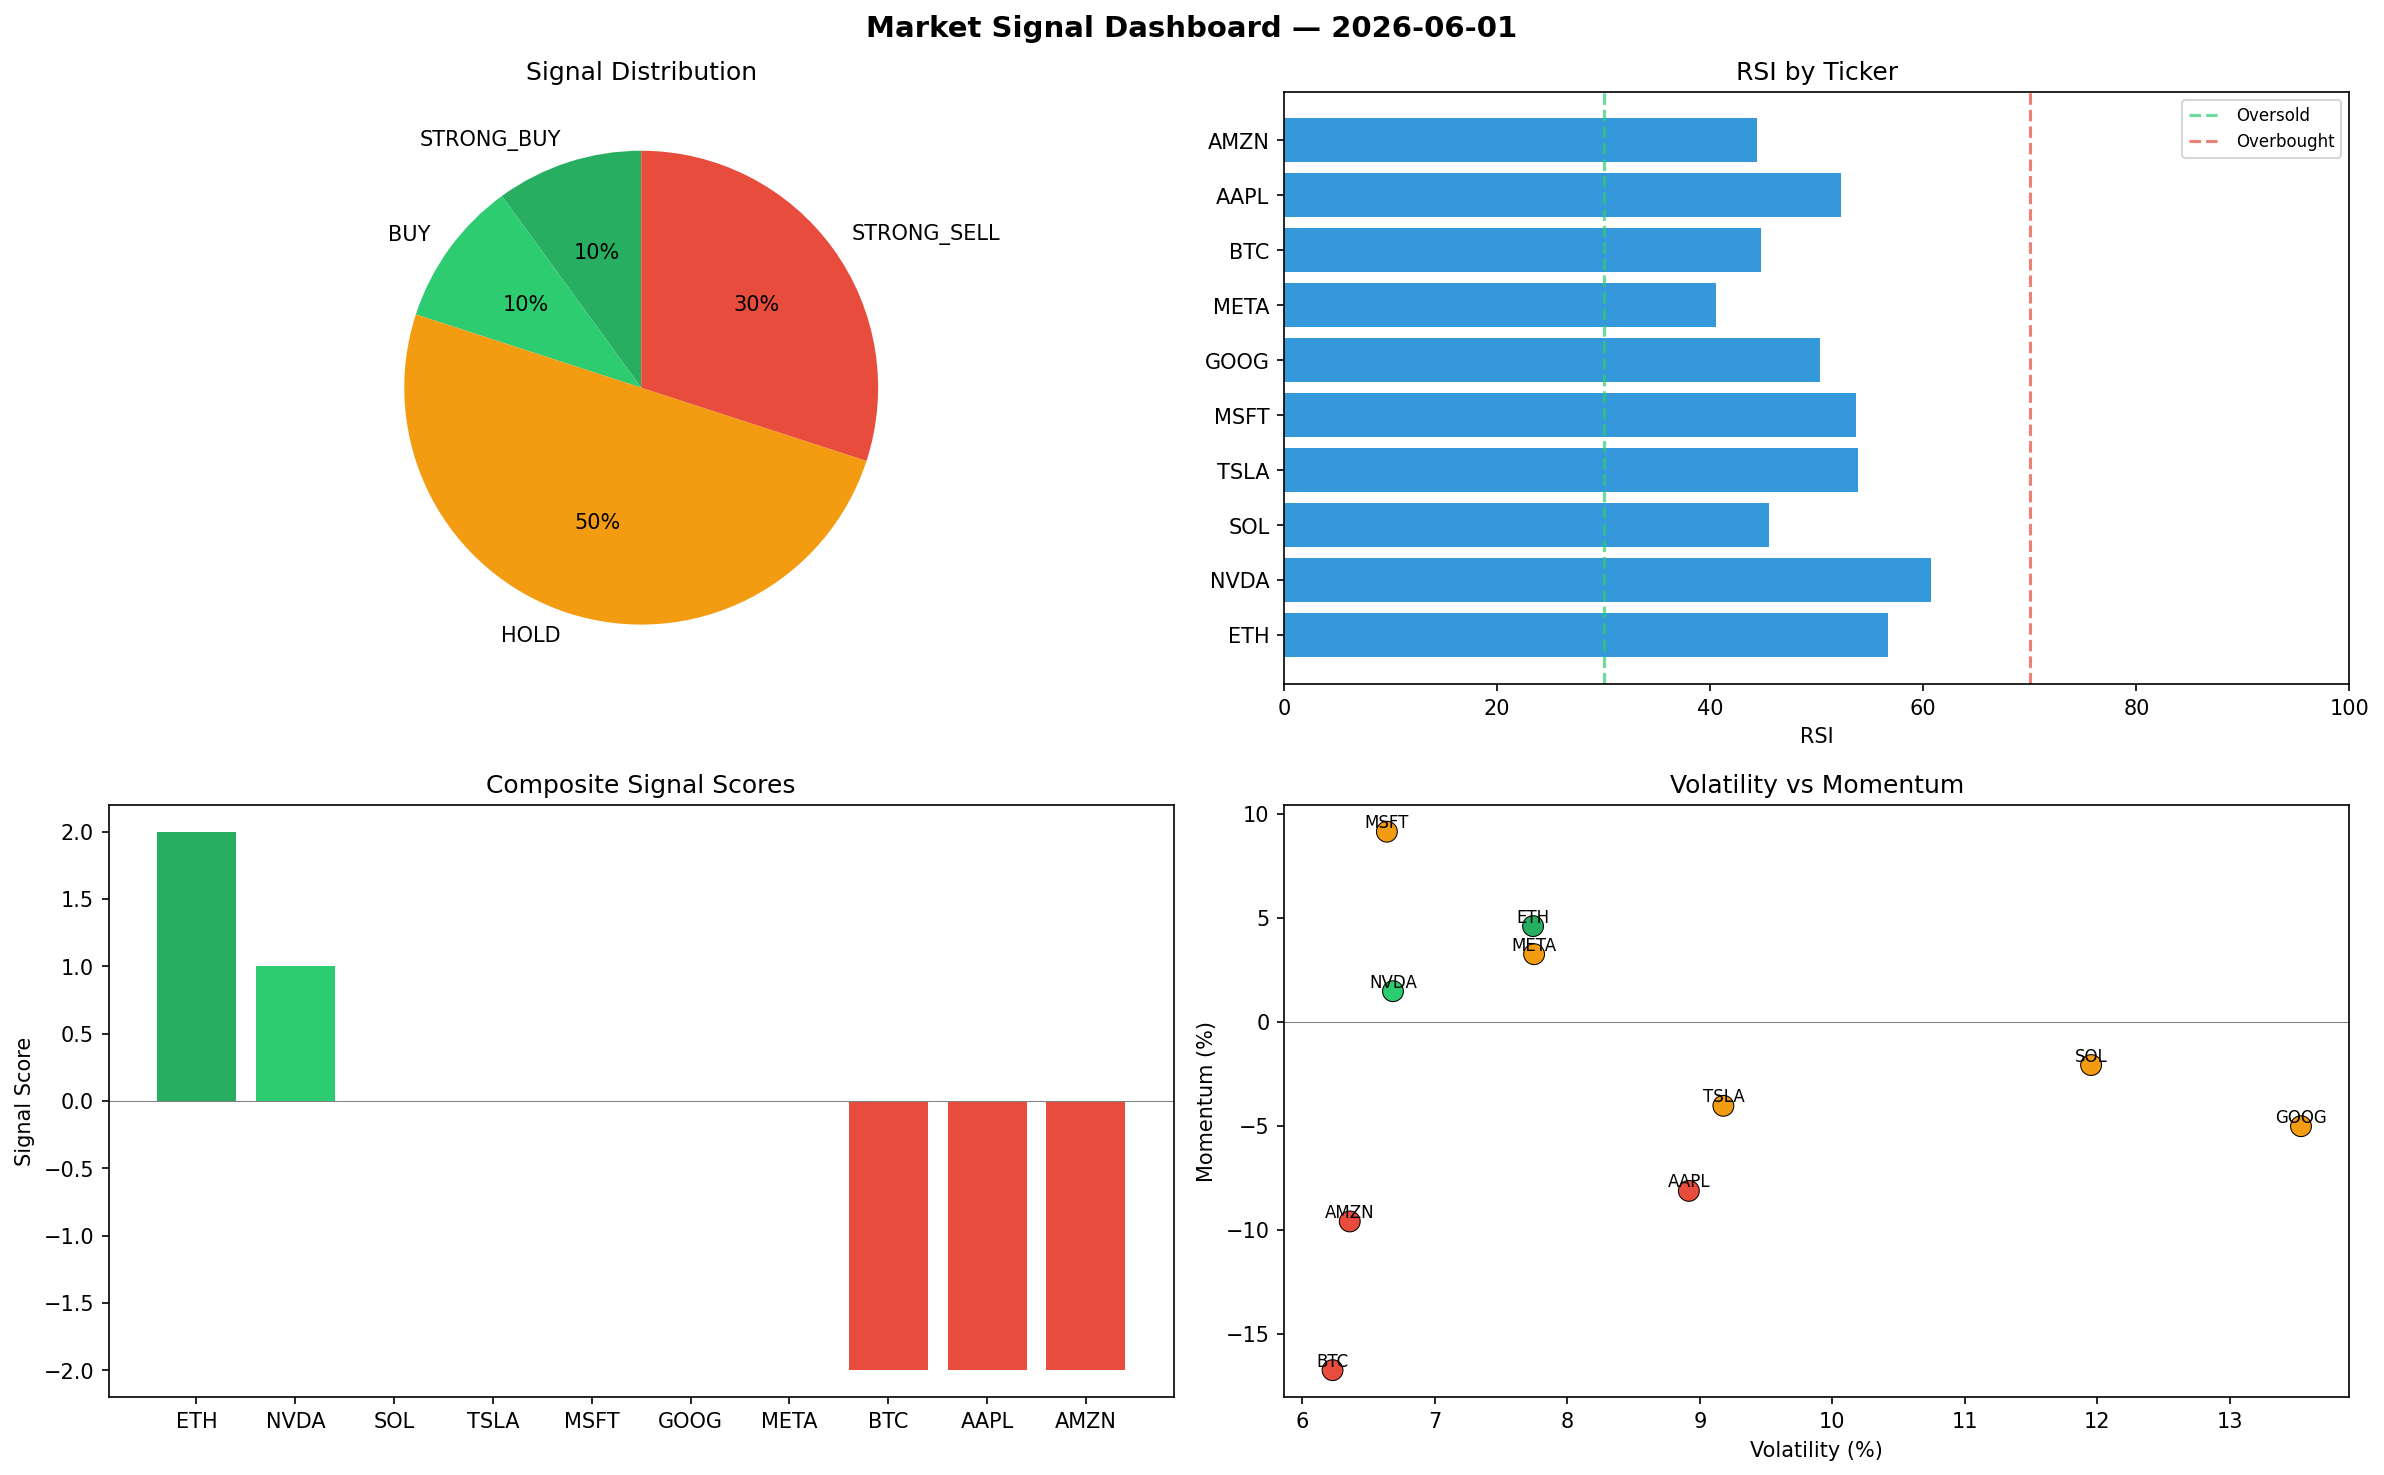
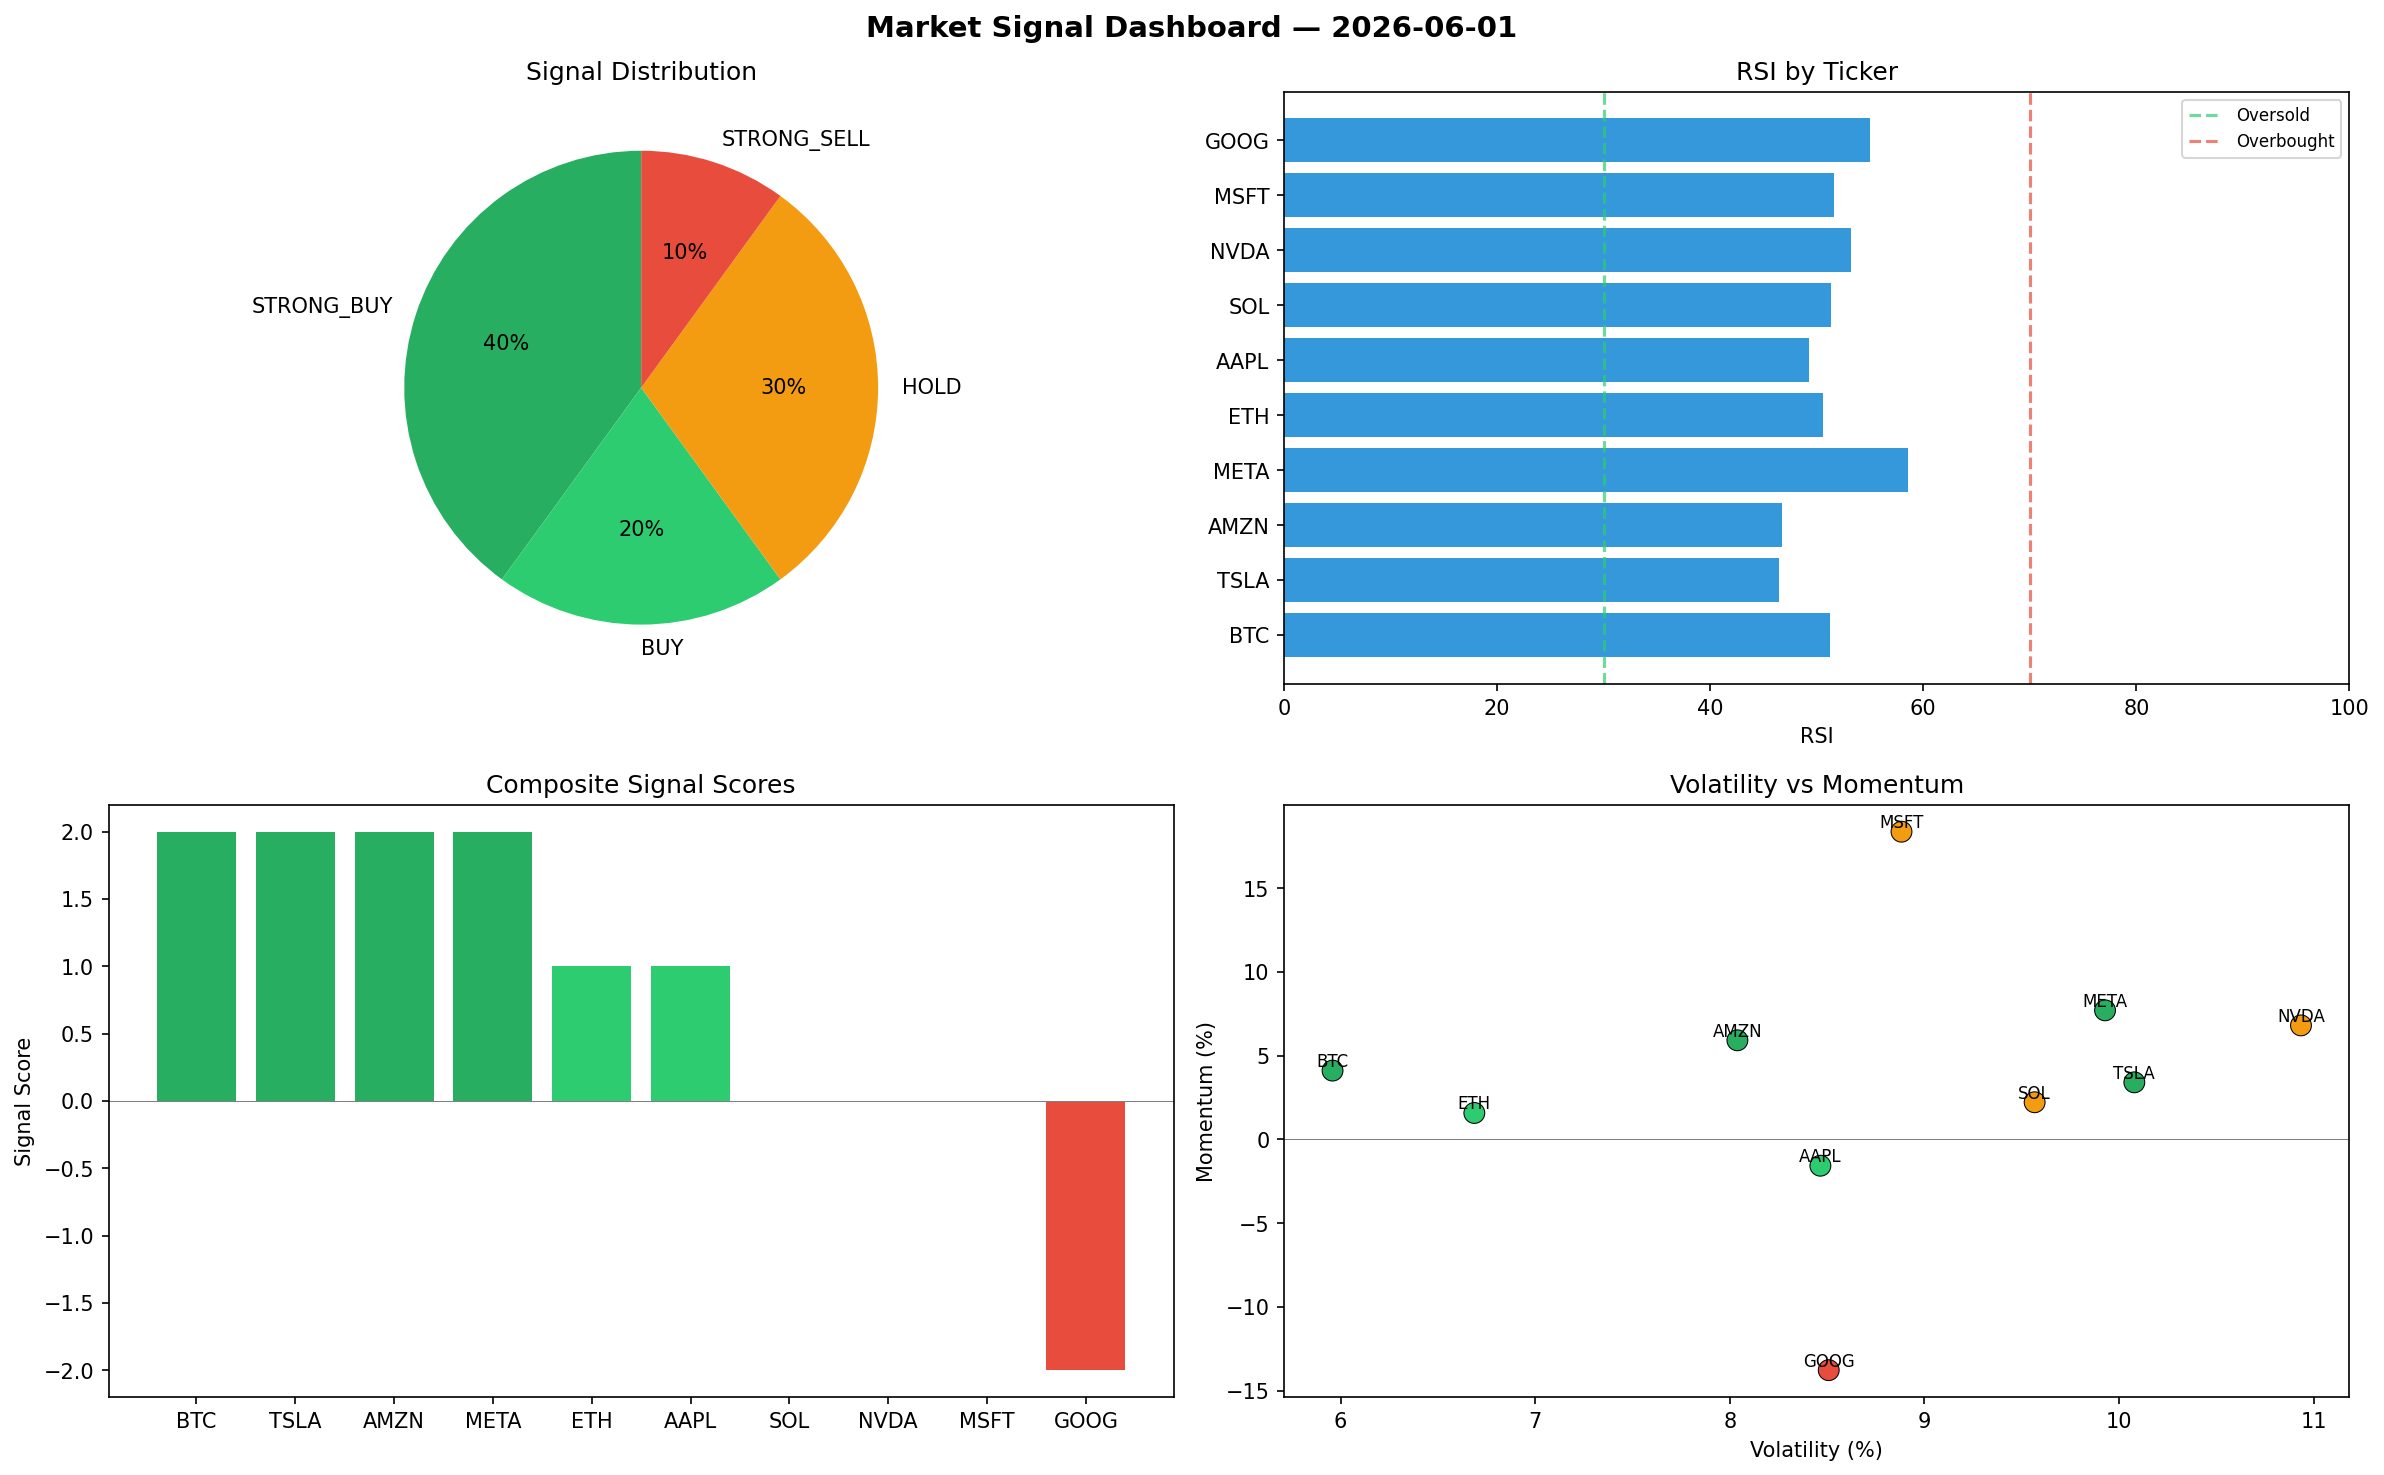
automated-bots: market signals 2026-06-01T14:32

diff --git a/logs/2026-06-01.md b/logs/2026-06-01.md
@@ -1,6 +1,6 @@
 # Market Signal Report — 2026-06-01
 
-**Run ID:** `3935b2a12d` | **Buy:** 2 | **Sell:** 3 | **Hold:** 5
+**Run ID:** `93dc624afd` | **Buy:** 6 | **Sell:** 1 | **Hold:** 3
 
 ![Dashboard](2026-06-01_dashboard.png)
 
@@ -8,28 +8,28 @@
 
 | Ticker | Price | Signal | Score | RSI | Momentum | Confidence |
 |--------|-------|--------|-------|-----|----------|------------|
-| ETH | $221.55 | **STRONG_BUY** | 2 | 56.72 | 0.0459 | 0.5 |
-| NVDA | $747.57 | **BUY** | 1 | 60.75 | 0.0146 | 0.25 |
-| SOL | $4489.9 | **HOLD** | 0 | 45.55 | -0.0209 | 0.0 |
-| TSLA | $2438.22 | **HOLD** | 0 | 53.83 | -0.0405 | 0.0 |
-| MSFT | $3363.01 | **HOLD** | 0 | 53.69 | 0.0913 | 0.0 |
-| GOOG | $4887.76 | **HOLD** | 0 | 50.35 | -0.0503 | 0.0 |
-| META | $2058.96 | **HOLD** | 0 | 40.52 | 0.0324 | 0.0 |
-| BTC | $3434.49 | **STRONG_SELL** | -2 | 44.73 | -0.1676 | 0.5 |
-| AAPL | $2788.89 | **STRONG_SELL** | -2 | 52.26 | -0.0814 | 0.5 |
-| AMZN | $452.31 | **STRONG_SELL** | -2 | 44.36 | -0.0961 | 0.5 |
+| BTC | $1060.41 | **STRONG_BUY** | 2 | 51.26 | 0.0411 | 0.5 |
+| TSLA | $3691.19 | **STRONG_BUY** | 2 | 46.43 | 0.0341 | 0.5 |
+| AMZN | $2233.52 | **STRONG_BUY** | 2 | 46.77 | 0.0592 | 0.5 |
+| META | $4301.56 | **STRONG_BUY** | 2 | 58.52 | 0.0771 | 0.5 |
+| ETH | $1933.78 | **BUY** | 1 | 50.56 | 0.0158 | 0.25 |
+| AAPL | $5113.24 | **BUY** | 1 | 49.25 | -0.0157 | 0.25 |
+| SOL | $2073.47 | **HOLD** | 0 | 51.38 | 0.0222 | 0.0 |
+| NVDA | $968.3 | **HOLD** | 0 | 53.26 | 0.0681 | 0.0 |
+| MSFT | $2696.62 | **HOLD** | 0 | 51.62 | 0.1838 | 0.0 |
+| GOOG | $4454.8 | **STRONG_SELL** | -2 | 54.98 | -0.1378 | 0.5 |
 
 ## Delta vs Yesterday
 
 | Ticker | Today | Yesterday | Price Change | Signal Changed |
 |--------|-------|-----------|-------------|----------------|
-| ETH | STRONG_BUY | HOLD | 📈 79.04% | ⚠ YES |
-| NVDA | BUY | BUY | 📉 -58.69% | — |
-| SOL | HOLD | HOLD | 📈 120.67% | — |
-| TSLA | HOLD | STRONG_SELL | 📉 -26.05% | ⚠ YES |
-| MSFT | HOLD | STRONG_BUY | 📈 10.66% | ⚠ YES |
-| GOOG | HOLD | STRONG_SELL | 📈 51.02% | ⚠ YES |
-| META | HOLD | STRONG_SELL | 📉 -40.45% | ⚠ YES |
-| BTC | STRONG_SELL | STRONG_SELL | 📈 23.39% | — |
-| AAPL | STRONG_SELL | STRONG_SELL | 📈 399.2% | — |
-| AMZN | STRONG_SELL | STRONG_SELL | 📉 -88.54% | — |
+| BTC | STRONG_BUY | STRONG_SELL | 📉 -61.9% | ⚠ YES |
+| TSLA | STRONG_BUY | STRONG_SELL | 📈 11.95% | ⚠ YES |
+| AMZN | STRONG_BUY | STRONG_SELL | 📉 -43.43% | ⚠ YES |
+| META | STRONG_BUY | STRONG_SELL | 📈 24.4% | ⚠ YES |
+| ETH | BUY | HOLD | 📈 1462.78% | ⚠ YES |
+| AAPL | BUY | STRONG_SELL | 📈 815.25% | ⚠ YES |
+| SOL | HOLD | HOLD | 📈 1.91% | — |
+| NVDA | HOLD | BUY | 📉 -46.49% | ⚠ YES |
+| MSFT | HOLD | STRONG_BUY | 📉 -11.26% | ⚠ YES |
+| GOOG | STRONG_SELL | STRONG_SELL | 📈 37.64% | — |
